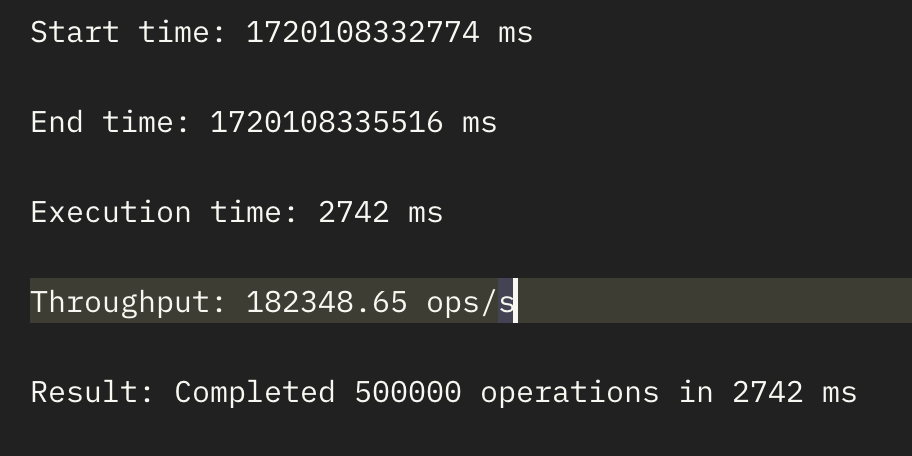
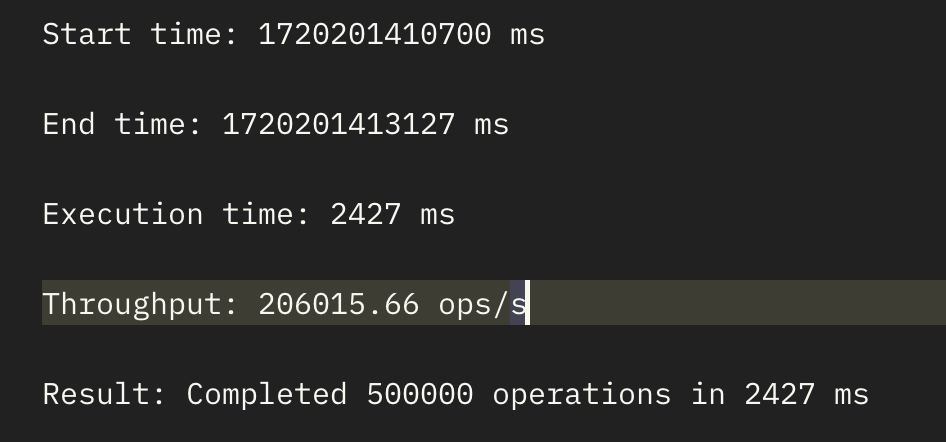
update/readme: benchmark 200k write rps

diff --git a/README_benchmark.md b/README_benchmark.md
@@ -44,45 +44,6 @@ ghz \
 127.0.0.1:9500
 ```
 
-Results:
-- Latency: p50 = 5.65 ms, p90 = 10.00 ms, p99 = 17.39 ms
-- Throughput: 21854.27 RPS
-
-```shell
-Summary:
-  Count:        500000
-  Total:        22.88 s
-  Slowest:      58.71 ms
-  Fastest:      0.13 ms
-  Average:      6.21 ms
-  Requests/sec: 21854.27
-
-Response time histogram:
-  0.128  [1]      |
-  5.986  [272885] |∎∎∎∎∎∎∎∎∎∎∎∎∎∎∎∎∎∎∎∎∎∎∎∎∎∎∎∎∎∎∎∎∎∎∎∎∎∎∎∎
-  11.845 [203033] |∎∎∎∎∎∎∎∎∎∎∎∎∎∎∎∎∎∎∎∎∎∎∎∎∎∎∎∎∎∎
-  17.704 [19343]  |∎∎∎
-  23.562 [2365]   |
-  29.421 [1462]   |
-  35.279 [797]    |
-  41.138 [96]     |
-  46.997 [13]     |
-  52.855 [4]      |
-  58.714 [1]      |
-
-Latency distribution:
-  10 % in 2.77 ms 
-  25 % in 4.05 ms 
-  50 % in 5.65 ms 
-  75 % in 7.72 ms 
-  90 % in 10.00 ms 
-  95 % in 11.75 ms 
-  99 % in 17.39 ms 
-
-Status code distribution:
-  [OK]   500000 responses  
-```
-
 ## Benchmark client-nodes using `autocannon`
 ```shell
 autocannon \
@@ -115,6 +76,6 @@ Req/Bytes counts sampled once per second.
 ```
 
 The results of the test indicate that the `client-app` is capable of handling 10,000 write requests per second.
-Given the cluster's maximum capacity of 180,000 write requests per second,
+Given the cluster's maximum capacity of 200,000 write requests per second,
 we can achieve this throughput by scaling the `client-app` to 18 instances.
 This will ensure that we fully utilize the cluster's capacity.

diff --git a/README.md b/README.md
@@ -13,7 +13,7 @@
 ![kafka-badge](https://img.shields.io/badge/Apache_Kafka-231F20?style=for-the-badge&logo=apache-kafka&logoColor=white)
 
 A simple high performance bank application using command sourcing.
-- Process around `180,000` **write-requests** per second on a single `leader` node.
+- Process around `200,000` **write-requests** per second on a single `leader` node.
 
   Result of sending 500k write-requests (deposit only) to the `leader` with 64 grpc connections (running on a MacBook Pro, 13-inch, M1, 16 GB, 2020):
 
